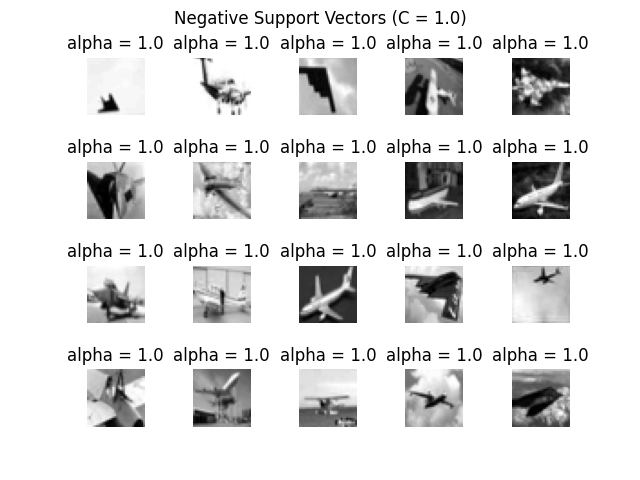
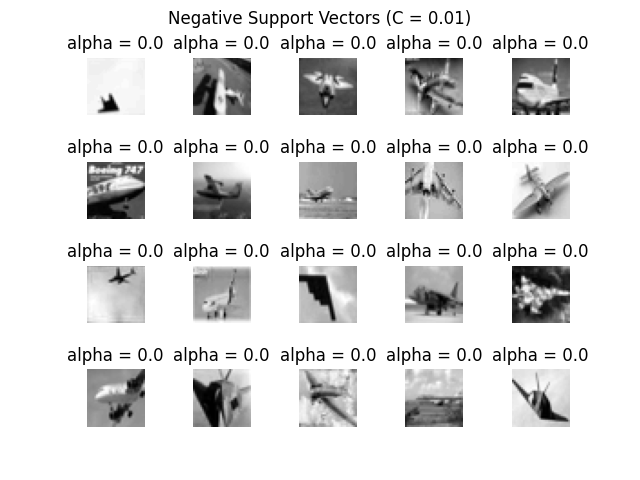
fini2

diff --git a/main.py b/main.py
@@ -103,13 +103,13 @@ if __name__ == '__main__':
 ########################################################################
 
 ########################### Linear SVM #################################
-    for C in [0.0001, 0.001, 0.01, 0.1, 1.0, 10.0]:
-        LinearSVM = trainAndtest_SVM(H_train, Y_train, H_test, Y_test, kernel = 'linear', C = C, \
-            gamma = 'scale', coef0 = 0.0, shrinking = True, decision_function_shape = 'ovr')
+    # for C in [0.0001, 0.001, 0.01, 0.1, 1.0, 10.0]:
+    #     LinearSVM = trainAndtest_SVM(H_train, Y_train, H_test, Y_test, kernel = 'linear', C = C, \
+    #         gamma = 'scale', coef0 = 0.0, shrinking = True, decision_function_shape = 'ovr')
     
 
     #### Count and plot support vectors
-    LinearSVM = trainAndtest_SVM(H_train, Y_train, H_test, Y_test, kernel = 'linear', C = 1.0, \
+    LinearSVM = trainAndtest_SVM(H_train, Y_train, H_test, Y_test, kernel = 'linear', C = 0.01, \
             gamma = 'scale', coef0 = 0.0, shrinking = True, decision_function_shape = 'ovr')
     
     Indices = LinearSVM.support_
@@ -133,7 +133,10 @@ if __name__ == '__main__':
     SV_neg = np.array(SV_neg)
     SV_pos = np.array(SV_pos)
 
-    print(f'support vectors number: {len(support_vectors)}')
+    print(f'Total support vectors number: {len(support_vectors)}')
+    print(f'Positive support vectors number: {len(SV_neg)}')
+    print(f'Negtive support vectors number: {len(SV_pos)}')
+
 
     alpha_neg = np.abs(Alpha[Indices_neg])
     alpha_pos = Alpha[Indices_pos]
@@ -146,30 +149,30 @@ if __name__ == '__main__':
     SV_pos = SV_pos[sorted_i_pos]
     alpha_pos = alpha_pos[sorted_i_pos]
 
-    plot_sv(SV_neg[:20], alpha_neg[:20], 'Negative Support Vectors (C = 1.0)', './fig/SVnegative.png')
-    plot_sv(SV_pos[:20], alpha_pos[:20], 'Positive Support Vectors (C = 1.0)', './fig/SVpositive.png')
+    plot_sv(SV_neg[:20], alpha_neg[:20], 'Negative Support Vectors (C = 0.01)', './fig/SVnegative.png')
+    plot_sv(SV_pos[:20], alpha_pos[:20], 'Positive Support Vectors (C = 0.01)', './fig/SVpositive.png')
 
     # LinearSVM = trainAndtest_SVM(H_train, Y_train, H_test, Y_test, kernel = 'linear', C = 100.0, \
     #         gamma = 'scale', coef0 = 0.0, shrinking = True, decision_function_shape = 'ovr', is_save = False)
 
 
 ########################### RBF kernel SVM #############################
-    for C in [0.5, 1.0, 5.0, 10.0]:
-        RBFSVM = trainAndtest_SVM(H_train, Y_train, H_test, Y_test, kernel = 'rbf', C = C, \
-            gamma = 0.002, coef0 = 0.0, shrinking = True, decision_function_shape = 'ovr')
+#     for C in [0.5, 1.0, 5.0, 10.0]:
+#         RBFSVM = trainAndtest_SVM(H_train, Y_train, H_test, Y_test, kernel = 'rbf', C = C, \
+#             gamma = 0.002, coef0 = 0.0, shrinking = True, decision_function_shape = 'ovr')
     
-    print(f'n_features: {RBFSVM.n_features_in_}')
-    print(f'X.var: {H_train.var()}')
+#     print(f'n_features: {RBFSVM.n_features_in_}')
+#     print(f'X.var: {H_train.var()}')
     
-    for gamma in [0.0001, 0.002, 'scale','auto']:
-        RBFSVM = trainAndtest_SVM(H_train, Y_train, H_test, Y_test, kernel = 'rbf', C = 5.0, \
-            gamma = gamma, coef0 = 0.0, shrinking = True, decision_function_shape = 'ovr')
+#     for gamma in [0.0001, 0.002, 'scale','auto']:
+#         RBFSVM = trainAndtest_SVM(H_train, Y_train, H_test, Y_test, kernel = 'rbf', C = 5.0, \
+#             gamma = gamma, coef0 = 0.0, shrinking = True, decision_function_shape = 'ovr')
 
-####################### Polynomial kernel SVM ###########################
-    for degree in [1, 2, 3, 4]:
-        PolySVM = trainAndtest_SVM(H_train, Y_train, H_test, Y_test, kernel = 'poly', C = 0.5, \
-                    degree = degree, gamma = 'scale', coef0 = 1.0, shrinking = True, decision_function_shape = 'ovr')
+# ####################### Polynomial kernel SVM ###########################
+#     for degree in [1, 2, 3, 4]:
+#         PolySVM = trainAndtest_SVM(H_train, Y_train, H_test, Y_test, kernel = 'poly', C = 0.5, \
+#                     degree = degree, gamma = 'scale', coef0 = 1.0, shrinking = True, decision_function_shape = 'ovr')
         
-    for coef0 in [0.0, 1.0, 5.0]:
-        PolySVM = trainAndtest_SVM(H_train, Y_train, H_test, Y_test, kernel = 'poly', C = 0.1, \
-        degree = 4, gamma = 'scale', coef0 = coef0, shrinking = True, decision_function_shape = 'ovr')
+#     for coef0 in [0.0, 1.0, 5.0]:
+#         PolySVM = trainAndtest_SVM(H_train, Y_train, H_test, Y_test, kernel = 'poly', C = 0.1, \
+#         degree = 4, gamma = 'scale', coef0 = coef0, shrinking = True, decision_function_shape = 'ovr')
